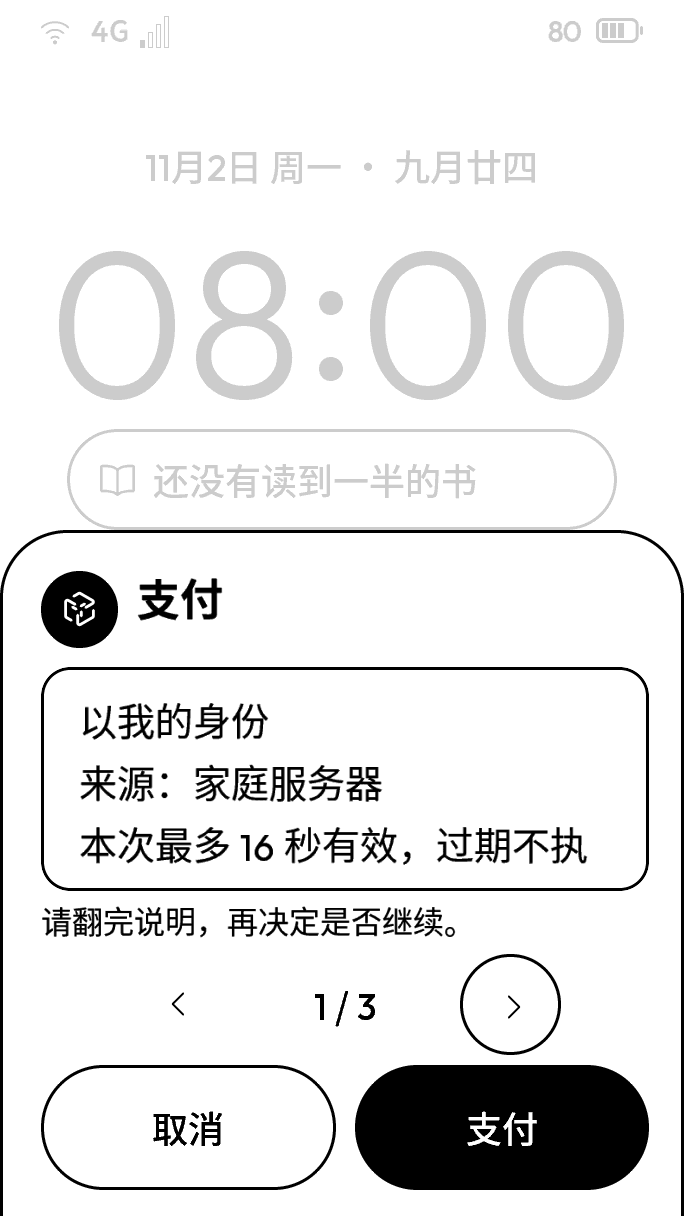
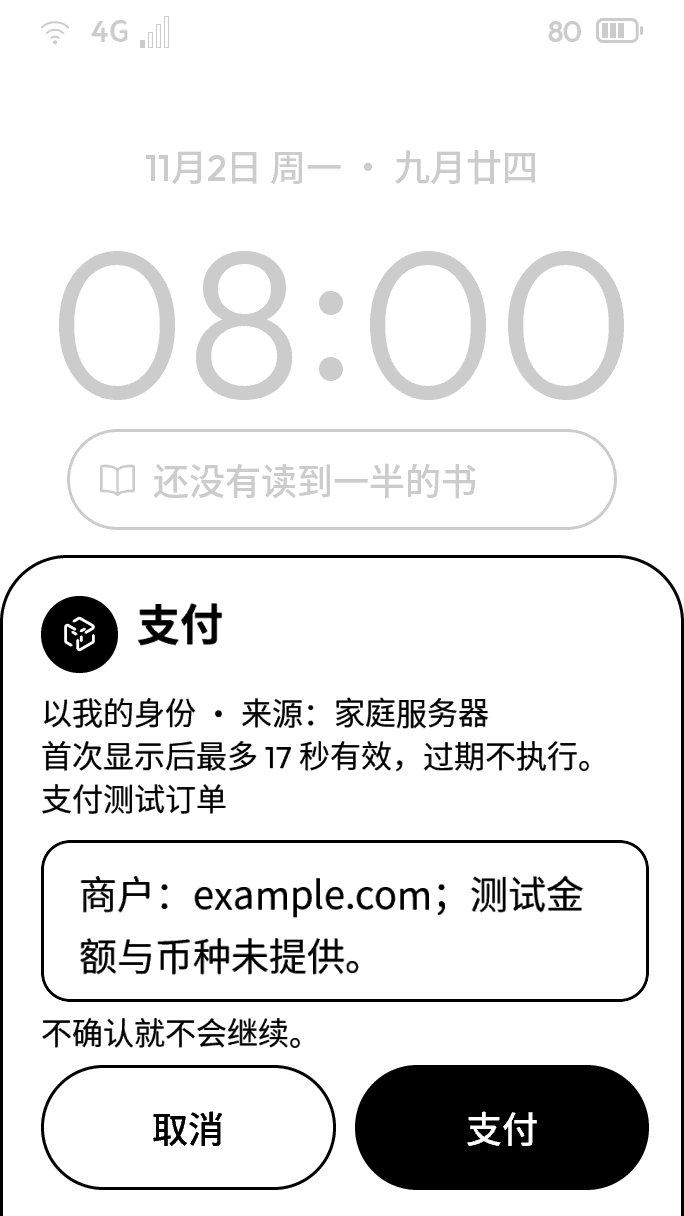
Keep confirmation context separate from transaction pages

diff --git a/system/ui/shell/confirm_card.c b/system/ui/shell/confirm_card.c
@@ -16,15 +16,15 @@
 #include "shell_card.h"
 #include "ink/ui_shell.h"
 
-enum { CONFIRM_TEXT_CAP = 512 };
+enum { CONFIRM_CONTEXT_CAP = 384 };
 static struct {
     shell_card_t card;
     ink_confirm_view_t now;
-    lv_obj_t *pad, *pager, *accept, *notice, *preview, *pin_dots;
+    lv_obj_t *pad, *pager, *accept, *notice, *preview, *pin_dots, *context;
     int head_h, preview_h, expired_h, expired_body_y;
     lv_timer_t *read_timer;
-    char text[CONFIRM_TEXT_CAP];
-    uint16_t starts[CONFIRM_TEXT_CAP + 1]; /* At most one page per byte, plus the end. */
+    char context_text[CONFIRM_CONTEXT_CAP];
+    uint16_t starts[161]; /* At most one page per detail byte, plus the end. */
     int page, pages;
     bool drawn, read, watching;
     bool expired;
@@ -157,7 +157,7 @@ static void on_answer(lv_event_t *e) {
 }
 
 static ink_ui_page_spec_t model(void) {
-    enum { FIELD_COUNT = 7, ACTION_COUNT = 6, DELTA_COUNT = 3 };
+    enum { FIELD_COUNT = 8, ACTION_COUNT = 6, DELTA_COUNT = 3 };
     static char identity[128], reading[96], args[DELTA_COUNT][80], choices[96];
     static ink_ui_field_spec_t fields[FIELD_COUNT] INK_PSRAM_BSS;
     static ink_ui_action_spec_t actions[ACTION_COUNT] INK_PSRAM_BSS;
@@ -169,11 +169,12 @@ static ink_ui_page_spec_t model(void) {
     snprintf(choices, sizeof choices, TR("%s、取消"), answer_label());
     fields[0] = (ink_ui_field_spec_t){.id = "transaction", .role = "status", .label = TR("确认编号"), .value = identity};
     fields[1] = (ink_ui_field_spec_t){.id = "title", .role = "text", .label = TR("标题"), .value = C.expired ? TR("这件事没有做") : title_text()};
-    fields[2] = (ink_ui_field_spec_t){.id = "detail", .role = "text", .label = TR("说明"), .value = C.expired ? lv_label_get_text(C.card.body) : C.text};
+    fields[2] = (ink_ui_field_spec_t){.id = "detail", .role = "text", .label = TR("说明"), .value = C.expired ? lv_label_get_text(C.card.body) : C.now.detail};
     fields[3] = (ink_ui_field_spec_t){.id = "notice", .role = "status", .label = TR("提示"), .value = C.pad ? TR("需要大人在设备上输入密码；密码内容不可见") : C.expired ? TR("已经过期，请重新发起") : notice_text()};
     fields[4] = (ink_ui_field_spec_t){.id = "reading", .role = "status", .label = TR("阅读"), .value = reading};
     fields[5] = (ink_ui_field_spec_t){.id = "buttons", .role = "button", .label = TR("本人操作"), .value = C.expired ? TR("关闭") : C.pad ? TR("取消") : choices};
-    fields[6] = (ink_ui_field_spec_t){.id = "pin", .role = "textbox", .label = TR("密码"), .value = C.pin_present ? "1" : "", .secret = true};
+    fields[6] = (ink_ui_field_spec_t){.id = "context", .role = "text", .label = TR("说明"), .value = C.expired ? TR("已经过期，请重新发起") : C.context_text};
+    fields[7] = (ink_ui_field_spec_t){.id = "pin", .role = "textbox", .label = TR("密码"), .value = C.pin_present ? "1" : "", .secret = true};
     for (int i = 0; i < DELTA_COUNT; i++) snprintf(args[i], sizeof args[i], "{\"token\":%u,\"delta\":%d}", (unsigned)C.now.token, i - 1);
     actions[0] = (ink_ui_action_spec_t){.id = "accept", .label = answer_label(), .capability = "confirm.accept", .args_json = args[1], .enabled = ready && !C.now.parent};
     actions[1] = (ink_ui_action_spec_t){.id = "reject", .label = TR("取消"), .capability = "confirm.reject", .args_json = args[1], .enabled = !C.expired};
@@ -201,7 +202,7 @@ static void close_card(void) {
     if (C.read_timer) lv_timer_delete(C.read_timer);
     C.read_timer = NULL;
     shell_card_close(&C.card);
-    C.pad = C.pager = C.accept = C.notice = C.preview = C.pin_dots = NULL;
+    C.pad = C.pager = C.accept = C.notice = C.preview = C.pin_dots = C.context = NULL;
     ink_ui_overlay_remove(&OVERLAY);
     ink_ui_overlay_remove(&EXPIRED);
     C.expired = false;
@@ -256,10 +257,12 @@ static void fit_to_words(void) {
     int title_h = ink_ui_text_height(title_text(), INK_FONT_SUBTITLE, INK_WEIGHT_BOLD, title_w);
     if (title_h > 2 * ink_ui_line_height(INK_FONT_SUBTITLE)) title_h = 2 * ink_ui_line_height(INK_FONT_SUBTITLE);
     int line = ink_ui_line_height(INK_FONT_BODY);
-    int words_h = ink_ui_text_height(C.text, INK_FONT_BODY, INK_WEIGHT_REGULAR, INK_CANVAS_W - 4 * INK_MARGIN);
+    int words_h = ink_ui_text_height(C.now.detail, INK_FONT_BODY, INK_WEIGHT_REGULAR, INK_CANVAS_W - 4 * INK_MARGIN);
     if (words_h > 3 * line) words_h = 3 * line;
     if (words_h < line) words_h = line;
     C.head_h = INK_MARGIN + (title_h > INK_CIRCLE_SMALL ? title_h : INK_CIRCLE_SMALL) + INK_GAP;
+    lv_obj_set_y(C.context, ink_ui_px(C.head_h));
+    C.head_h += ink_ui_text_height(C.context_text, INK_FONT_NOTE, INK_WEIGHT_REGULAR, INK_CANVAS_W - 2 * INK_MARGIN) + INK_GAP;
     C.preview_h = words_h + 2 * INK_GAP;
     lv_obj_set_height(C.card.title, ink_ui_px(title_h));
     lv_obj_set_y(C.preview, ink_ui_px(C.head_h));
@@ -275,16 +278,16 @@ static void paginate(void) {
     const lv_font_t *font = lv_obj_get_style_text_font(C.card.body, LV_PART_MAIN);
     int letter = lv_obj_get_style_text_letter_space(C.card.body, LV_PART_MAIN);
     int line = lv_obj_get_style_text_line_space(C.card.body, LV_PART_MAIN);
-    size_t at = 0, len = strlen(C.text);
+    size_t at = 0, len = strlen(C.now.detail);
     C.page = C.pages = 0;
     C.starts[0] = 0;
     do {
         size_t end = at;
         while (end < len) {
             size_t next = end + 1;
-            while (next < len && (C.text[next] & 0xc0) == 0x80) next++;
-            char text[sizeof C.text];
-            snprintf(text, sizeof text, "%.*s", (int)(next - at), C.text + at);
+            while (next < len && (C.now.detail[next] & 0xc0) == 0x80) next++;
+            char text[sizeof C.now.detail];
+            snprintf(text, sizeof text, "%.*s", (int)(next - at), C.now.detail + at);
             lv_point_t size;
             lv_text_get_size(&size, text, font, letter, line, w, LV_TEXT_FLAG_NONE);
             if (size.y > h) break;
@@ -305,8 +308,8 @@ static void draw_page(void) {
     lv_obj_set_height(C.card.panel, ink_ui_px(height + INK_RADIUS_PANEL));
     lv_obj_set_y(C.card.row, ink_ui_px(height - INK_PRIMARY - INK_GAP_L));
     lv_obj_set_y(C.notice, ink_ui_px(notice_y()));
-    char text[sizeof C.text];
-    if (C.pages) snprintf(text, sizeof text, "%.*s", C.starts[C.page + 1] - C.starts[C.page], C.text + C.starts[C.page]);
+    char text[sizeof C.now.detail];
+    if (C.pages) snprintf(text, sizeof text, "%.*s", C.starts[C.page + 1] - C.starts[C.page], C.now.detail + C.starts[C.page]);
     else snprintf(text, sizeof text, TR("说明无法完整显示，请取消。"));
     C.drawn = C.read = false;
     lv_label_set_text(C.card.body, text);
@@ -330,14 +333,17 @@ static void show(const ink_confirm_view_t *top) { /* UI task */
         return;
     }
     if (C.expired) close_card();
-    if (C.card.root && C.now.token == top->token && C.now.parent == top->parent && C.now.src == top->src &&
+    bool unchanged = C.now.token == top->token && C.now.parent == top->parent && C.now.src == top->src &&
         C.now.expires_us == top->expires_us && !strcmp(C.now.cap, top->cap) &&
-        !strcmp(C.now.title, top->title) && !strcmp(C.now.detail, top->detail)) return;
+        !strcmp(C.now.title, top->title) && !strcmp(C.now.detail, top->detail);
+    if (C.card.root && unchanged) return;
     C.now = *top;
     ink_member_identity(&C.owner);
-    uint64_t now = osal_now_us(), seconds = top->expires_us > now ? (top->expires_us - now) / 1000000 : 0;
-    const char *source = top->src == INK_SRC_AI ? TR("AI") : top->src == INK_SRC_REMOTE ? TR("家庭服务器") : top->src == INK_SRC_APP ? TR("应用") : TR("本人操作");
-    snprintf(C.text, sizeof C.text, TR("以%s的身份\n来源：%s\n本次最多 %llu 秒有效，过期不执行。\n%s\n%s"), ink_member_current()->name, source, (unsigned long long)seconds, top->title, top->detail);
+    if (!unchanged) {
+        uint64_t now = osal_now_us(), seconds = top->expires_us > now ? (top->expires_us - now + 999999) / 1000000 : 0;
+        const char *source = top->src == INK_SRC_AI ? TR("AI") : top->src == INK_SRC_REMOTE ? TR("家庭服务器") : top->src == INK_SRC_APP ? TR("应用") : TR("本人操作");
+        snprintf(C.context_text, sizeof C.context_text, TR("以%s的身份 · 来源：%s\n首次显示后最多 %llu 秒有效，过期不执行。\n%s"), ink_member_current()->name, source, (unsigned long long)seconds, top->title);
+    }
     if (C.pad) {
         lv_obj_delete(C.pad);
         C.pad = C.pin_dots = NULL;
@@ -360,18 +366,21 @@ static void show(const ink_confirm_view_t *top) { /* UI task */
         lv_obj_set_pos(C.card.body, ink_ui_px(INK_MARGIN), ink_ui_px(INK_GAP));
         lv_obj_set_width(C.card.body, ink_ui_px(INK_CANVAS_W - 4 * INK_MARGIN));
         C.notice = ink_ui_notice(C.card.panel, "", 0);
+        C.context = ink_ui_label(C.card.panel, "", INK_FONT_NOTE, INK_WEIGHT_REGULAR, INK_MARGIN, 0, INK_CANVAS_W - 2 * INK_MARGIN);
     }
+    lv_label_set_text(C.context, C.context_text);
     fit_to_words();
-    shell_card_text(&C.card, title_text(), C.text);
+    shell_card_text(&C.card, title_text(), C.now.detail);
     shell_card_clear_buttons(&C.card);
     const ink_cap_t *cap = ink_cap_find(C.now.cap);
-    bool cancel_first = cap && (cap->effect == INK_FX_LOCAL_DESTRUCTIVE || !strcmp(C.now.cap, "system.factory_reset"));
-    shell_card_button(&C.card, cancel_first ? TR("取消") : answer_label(), on_answer, cancel_first ? NULL : (void *)1);
-    shell_card_button(&C.card, cancel_first ? answer_label() : TR("取消"), on_answer, cancel_first ? (void *)1 : NULL);
-    C.accept = lv_obj_get_child(C.card.row, cancel_first ? 1 : 0);
+    bool destructive = cap && (cap->effect == INK_FX_LOCAL_DESTRUCTIVE || !strcmp(C.now.cap, "system.factory_reset"));
+    C.accept = ink_ui_pill(C.card.row, answer_label(), 0, 0, INK_PRIMARY, INK_PRIMARY, !destructive, on_answer, (void *)1);
+    lv_obj_set_flex_grow(C.accept, 1);
+    lv_obj_t *cancel = ink_ui_pill(C.card.row, TR("取消"), 0, 0, INK_PRIMARY, INK_PRIMARY, destructive, on_answer, NULL);
+    lv_obj_set_flex_grow(cancel, 1);
     lv_obj_add_event_cb(C.accept, read_pressed, LV_EVENT_PRESSED, NULL);
-    lv_obj_add_event_cb(lv_obj_get_child(C.card.row, cancel_first ? 0 : 1), pressed, LV_EVENT_PRESSED, NULL);
-    lv_obj_set_flex_flow(C.card.row, cancel_first ? LV_FLEX_FLOW_ROW : LV_FLEX_FLOW_ROW_REVERSE);
+    lv_obj_add_event_cb(cancel, pressed, LV_EVENT_PRESSED, NULL);
+    lv_obj_set_flex_flow(C.card.row, LV_FLEX_FLOW_ROW_REVERSE);
     paginate();
     draw_page();
 }

diff --git a/tests/confirm_pages/pages.c b/tests/confirm_pages/pages.c
@@ -109,9 +109,9 @@ static void read_all(uint32_t token) {
 static const char *accept_label(void) {
     if (!strcmp(scene, "ConfirmParent")) return "输入密码";
     if (!strcmp(scene, "ConfirmCall")) return "打电话";
-    if (!strcmp(scene, "ConfirmSetting")) return "确认修改";
-    if (!strcmp(scene, "ConfirmWeb")) return "确认支付";
-    return "确认";
+    if (!strcmp(scene, "ConfirmSetting")) return "修改设置";
+    if (!strcmp(scene, "ConfirmWeb")) return "支付";
+    return "继续操作";
 }
 static void ai_cannot_answer(uint32_t token) {
     for (int src = INK_SRC_AI; src <= INK_SRC_CONFIRMED; src++) {
@@ -136,7 +136,7 @@ static void queue_test(void) {
         ink_confirm_view_t cards[4]; CHECK(ink_confirm_list(cards, 4) == 4 - i && cards[0].token == tokens[i], "FIFO item %d", i);
         view(); char count[40]; snprintf(count, sizeof count, "排队=%d", 4 - i);
         CHECK(strstr(g_snap, count), "snapshot reports the actual queue length");
-        if (i == 1) { read_all(tokens[i]); press("确认"); }
+        if (i == 1) { read_all(tokens[i]); press("继续操作"); }
         else press("取消");
         CHECK(WAIT_FOR(result_token == tokens[i], 10000), "each queue item gets its own result");
         CHECK(!strcmp(decision, i == 1 ? "accepted" : "rejected") && (i == 1 ? !strcmp(status, "done") : !status[0]),

diff --git a/tests/ui_fix_a/candidate.py b/tests/ui_fix_a/candidate.py
@@ -1,0 +1,30 @@
+"""Prepare a real source copy with the proposed translations, without editing the original table."""
+from pathlib import Path
+import shutil
+import subprocess
+
+ROOT = Path(__file__).resolve().parents[2]
+source = ROOT / "work/ui-fix-a-validation/source"
+source.mkdir(parents=True, exist_ok=True)
+for name in subprocess.check_output(["git", "ls-tree", "--name-only", "HEAD"], cwd=ROOT, text=True).splitlines():
+    target, original = source / name, ROOT / name
+    if name == "docs":
+        if not target.exists():
+            target.symlink_to(original, target_is_directory=True)
+        continue
+    if target.is_symlink():
+        target.unlink()
+    if original.is_dir():
+        if target.exists():
+            for link in target.rglob("*"):
+                if link.is_symlink():
+                    link.unlink()
+        shutil.copytree(original, target, dirs_exist_ok=True, ignore=shutil.ignore_patterns("__pycache__", ".DS_Store"))
+    else:
+        shutil.copy2(original, target)
+table = source / "assets/i18n/en.tsv"
+if table.is_symlink():
+    table.unlink()
+table.write_text((ROOT / "assets/i18n/en.tsv").read_text().rstrip("\n") + "\n" +
+    (ROOT / "docs/tasks/ui-fix-a/en-additions.tsv").read_text())
+print("Candidate source: work/ui-fix-a-validation/source")

diff --git a/tests/ui_fix_a/confirm.c b/tests/ui_fix_a/confirm.c
@@ -16,6 +16,13 @@ static void fx_check_page(void) {
     lv_area_t body, notice, buttons;
     lv_obj_get_coords(C.card.body, &body); lv_obj_get_coords(C.notice, &notice); lv_obj_get_coords(C.card.row, &buttons);
     CHECK(body.y2 < notice.y1 && notice.y2 < buttons.y1, "UX05 Chinese text, notice and buttons never overlap");
+    bool context_fits = false;
+    for (uint32_t i = 0; i < lv_obj_get_child_count(C.card.panel); i++) {
+        lv_obj_t *o = lv_obj_get_child(C.card.panel, (int)i);
+        if (!lv_obj_check_type(o, &lv_label_class) || !strstr(lv_label_get_text(o), "的身份")) continue;
+        lv_area_t a; lv_obj_get_coords(o, &a); context_fits = a.y1 >= 0 && a.y2 < body.y1;
+    }
+    CHECK(context_fits, "UX05 identity and actual validity remain fully visible above the original transaction pages");
     CHECK(C.starts[0] == 0 && C.starts[C.pages] >= strlen(C.now.detail), "UX05 pagination retains the entire supplied object and detail");
 }
 static void fx_secret(void) {

diff --git a/tests/confirm_pages/run.py b/tests/confirm_pages/run.py
@@ -30,7 +30,7 @@ if a.mutant or a.baseline:
     link = shlex.split((build / 'CMakeFiles/sim-confirm-pages.dir/link.txt').read_text())
     if a.mutant == 'queue-reject':
         source = (ROOT / 'tests/confirm_pages/pages.c').read_text()
-        guard = 'if (i == 1) { read_all(tokens[i]); press("确认"); }'
+        guard = 'if (i == 1) { read_all(tokens[i]); press("继续操作"); }'
         assert source.count(guard) == 1, 'mutation must change exactly the second queue answer'
         source_file = area / 'pages.c'
         source_file.write_text(source.replace(guard, 'if (i == 1) { read_all(tokens[i]); press("取消"); }'))

diff --git a/docs/tasks/ui-fix-a/REPORT.md b/docs/tasks/ui-fix-a/REPORT.md
@@ -6,12 +6,14 @@
 
 里程碑二：【实测】四页修改的专用测试在两个字号均通过；见[前后截图索引](SCREENSHOTS.md)。原目录的普通和 ASan 构建均被新增文案缺少英语词条阻止，正在隔离副本验证[40 条词表候选](en-additions.tsv)；候选尚未写入原词表，不能把候选验证当作原目录全量通过。
 
+里程碑三：【实测】首轮隔离全量暴露了确认卡回归：附加信息混入正文改变了原有分页，来电后重算秒数改变了画面。已改成独立信息区，保持交易正文逐字分页；有效期明确从首次显示起算，同一请求重现时保持该文案。17 项针对性复查全部通过，原有无缺字、画面一致、来源限制、FIFO 与孩子权限断言未改。第二轮完整验证进行中。
+
 ## 验收表
 
 | 编号 | 结论 | 证据 | 命令 |
 | --- | --- | --- | --- |
 | UX04（U03～U06；U01/U02 未改项见下） | 页面测试通过 | 【实测】100% / 120% 各 30 检查；清单范围、四个实际服务阶段、重启调用、部分失败说明；基线各失败 9 条 | `reverse.py --build build --current --case backup`；反向去掉 `--current` |
-| UX05（X01～X09） | 页面测试通过；服务缺字段限制见下 | 【实测】100% 103、120% 109 检查；实际有效期、完整对象、具体动词、掩码、末页阅读限制、本人密码和过期；基线各失败 4 条 | 同上，`--case confirm` |
+| UX05（X01～X09） | 页面测试通过；服务缺字段限制见下 | 【实测】两个字号各 70 检查；实际有效期、完整对象、具体动词、掩码、末页阅读限制、本人密码和过期；17 项跨页复查全部通过；基线待最终补录 | 同上，`--case confirm` |
 | UX11（U07～U11） | 页面测试通过 | 【实测】两个字号各 26 检查；接收中不冒充成功、成功指明打开位置、稳定退出位置、USB 忙不承诺代停、一次性码不进 AI；基线各失败 7 条 | 同上，`--case transfer` |
 | UX23（X10/X11） | 页面测试通过；整卡保留限制见下 | 【实测】两个字号各 25 检查；默认保留共享书/音频、清空所有家人的后果、备份、退出、卡选项重置、下一步；基线各失败 4 条 | 同上，`--case factory` |
 | 全量测试 | 原目录构建受阻，未通过最终验收 | 【实测】英语词条校验拒绝新增文案；隔离候选验证中 | `taskpolicy -c utility cmake --build build -j2` |
@@ -19,7 +21,7 @@
 | 内存检查 | 原目录构建受阻，未运行 ASan 测试 | 【实测】`build-asan` 已配置，构建同样被词表校验阻止 | `taskpolicy -c utility cmake --build build-asan -j2` |
 | S31 | 未编译 | 界面任务无设备操作；候选验证后再记实际执行范围 | 无 |
 | gcccheck | 通过，最终修改后待复核 | 【实测】`gcccheck: 11 compiled, 0 with findings`，包括四页、四个新驱动和三个既有专用驱动 | `gcccheck.py build <这 11 个 C 文件>` |
-| 隐私检查、行数预算 | 收尾时核对 | 四个产品文件合计 +82/-67，共 149 行变动，未超 250 行；UX04 34、UX05 54、UX11 40、UX23 21 | `git diff --numstat` |
+| 隐私检查、行数预算 | 收尾时核对 | 四个产品文件合计 +86/-62，共 148 行变动，未超 250 行；UX04 34、UX05 53、UX11 40、UX23 21 | `git diff --numstat` |
 
 ## 没做到的
 
@@ -38,6 +40,7 @@
 - `tests/backup_pages.c`：原“开始用→主页”期望改为完成页含 `system.reboot`；后续场景主动调用主页能力继续测试，避免真的执行模拟重启。恢复按钮短为“恢复备份”，120% 不再省略。
 - `tests/factory_pages.c`：两处“继续”改为“验证并清空”，完成动作“知道了”改为“重新设置设备”；密码、备份、清空和字节对照断言均保留。
 - `tests/transfer_pages/device.c`：三处“停下，开始”改为“开始连接”，“结束”改为“结束传输”；实际 HTTP 字节和 USB 占用检查均保留。
+- `tests/confirm_pages/pages.c`：按钮期望“确认修改/确认支付/确认”改为“修改设置/支付/继续操作”，队列第二项使用相同新文案；`run.py` 的负向变异匹配相应更新。没有放宽执行次数、队列目标或来源限制断言。
 - 公共测试文件未改。新增测试的 AI 拒绝断言接受既有网关的 `REJECTED` 或隐藏能力返回的 `INVALID`；均不接受执行成功。
 
 ## 要用户定的
@@ -53,11 +56,13 @@
 - 基线反向对照（手动，不注册进 ctest，不依赖 CI 的 Git 历史）：`taskpolicy -c utility "$INK_DEPS/build-deps/pyenv/bin/python" tests/ui_fix_a/reverse.py --build build --evidence docs/tasks/ui-fix-a/before`。
 - 四组当前页面的定点复编与运行：同上追加 `--current --evidence docs/tasks/ui-fix-a/after`。这是页面定点验证；原目录整工程仍受词表校验阻止。
 - 常规注册的四组测试：`taskpolicy -c utility "$INK_DEPS/build-deps/pyenv/bin/ctest" --test-dir build --output-on-failure -j2 -R '^ui-fix-a-'`。它们不依赖 Git 历史。
+- 原词表未授权时，运行 `taskpolicy -c utility "$INK_DEPS/build-deps/pyenv/bin/python" tests/ui_fix_a/candidate.py` 建立真实源码副本。随后用总规则的同一配置参数，把 `-S` 换为 `work/ui-fix-a-validation/source`、`-B` 换为 `work/ui-fix-a-validation/build`；普通构建、ctest 命令同样换该构建目录。ASan 使用 `work/ui-fix-a-validation/build-asan` 并加 `-DINK_SANITIZE=ON`。只有该副本附加任务目录中的词条。
 - 所有测试都使用合成数据；截图生成时转换为无损灰度 PNG，单张不超过 300 KB。
 
 ## 新增的机制
 
 - 无；不新增产品任务、状态机、文件格式或配置项。
+- 测试驱动复用已有整机测试框架，各启动一个仅模拟器使用的驱动任务；可选 `INK_UI_FIX_EVIDENCE` 只决定测试截图输出目录。均为任务书要求的测试和截图，不编入设备固件。
 
 ## 要改的文档
 
